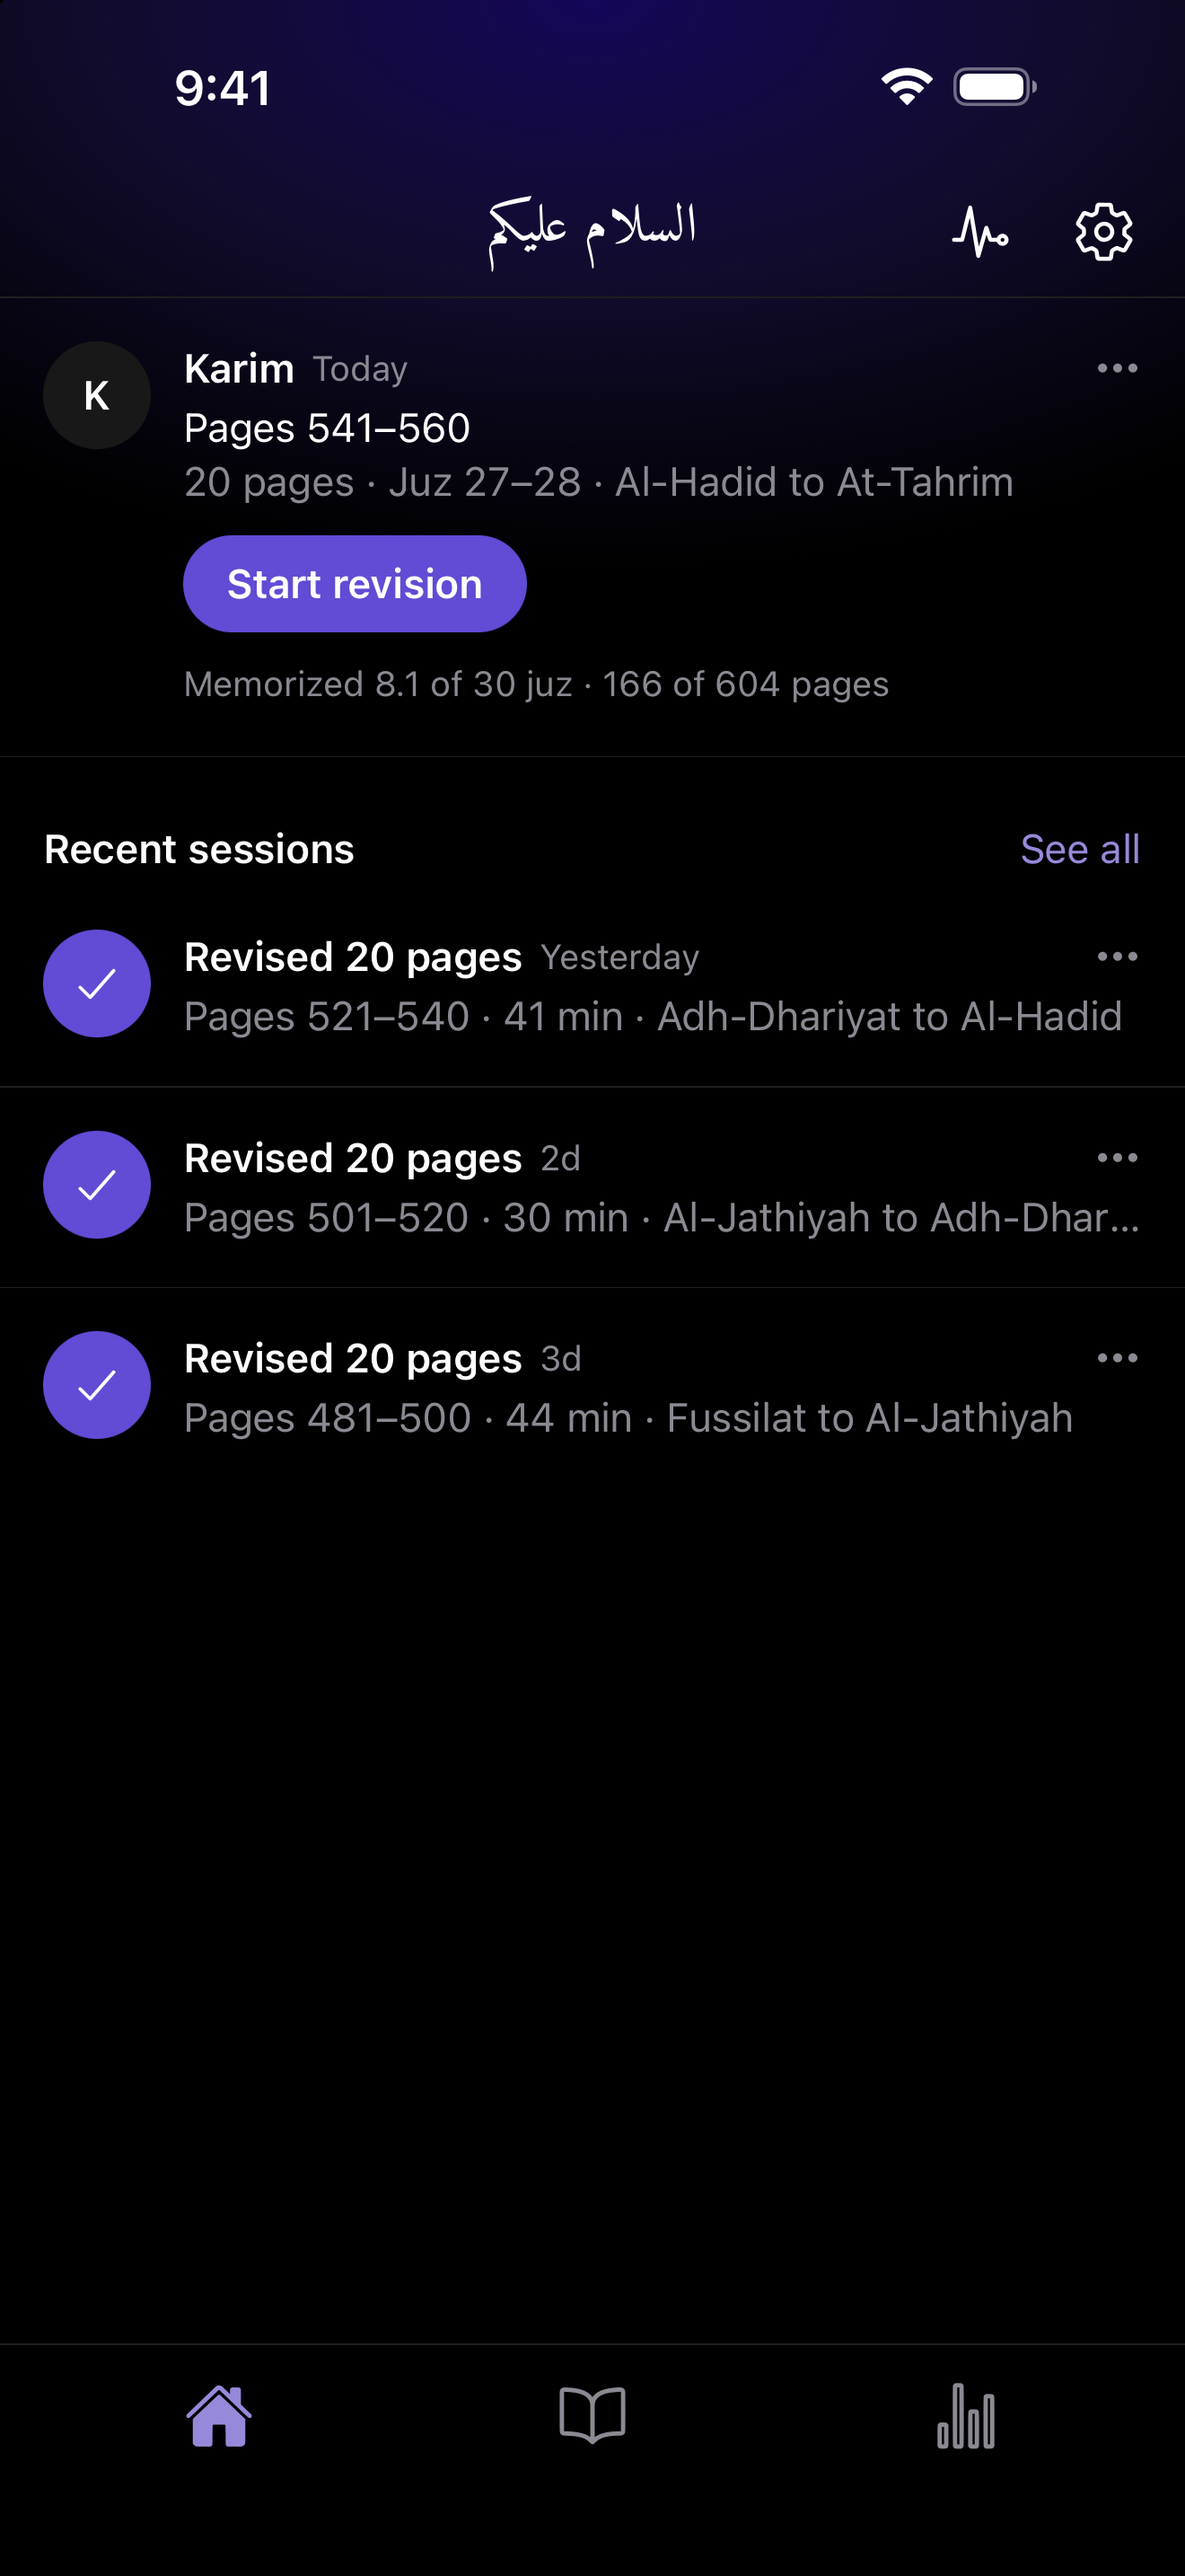
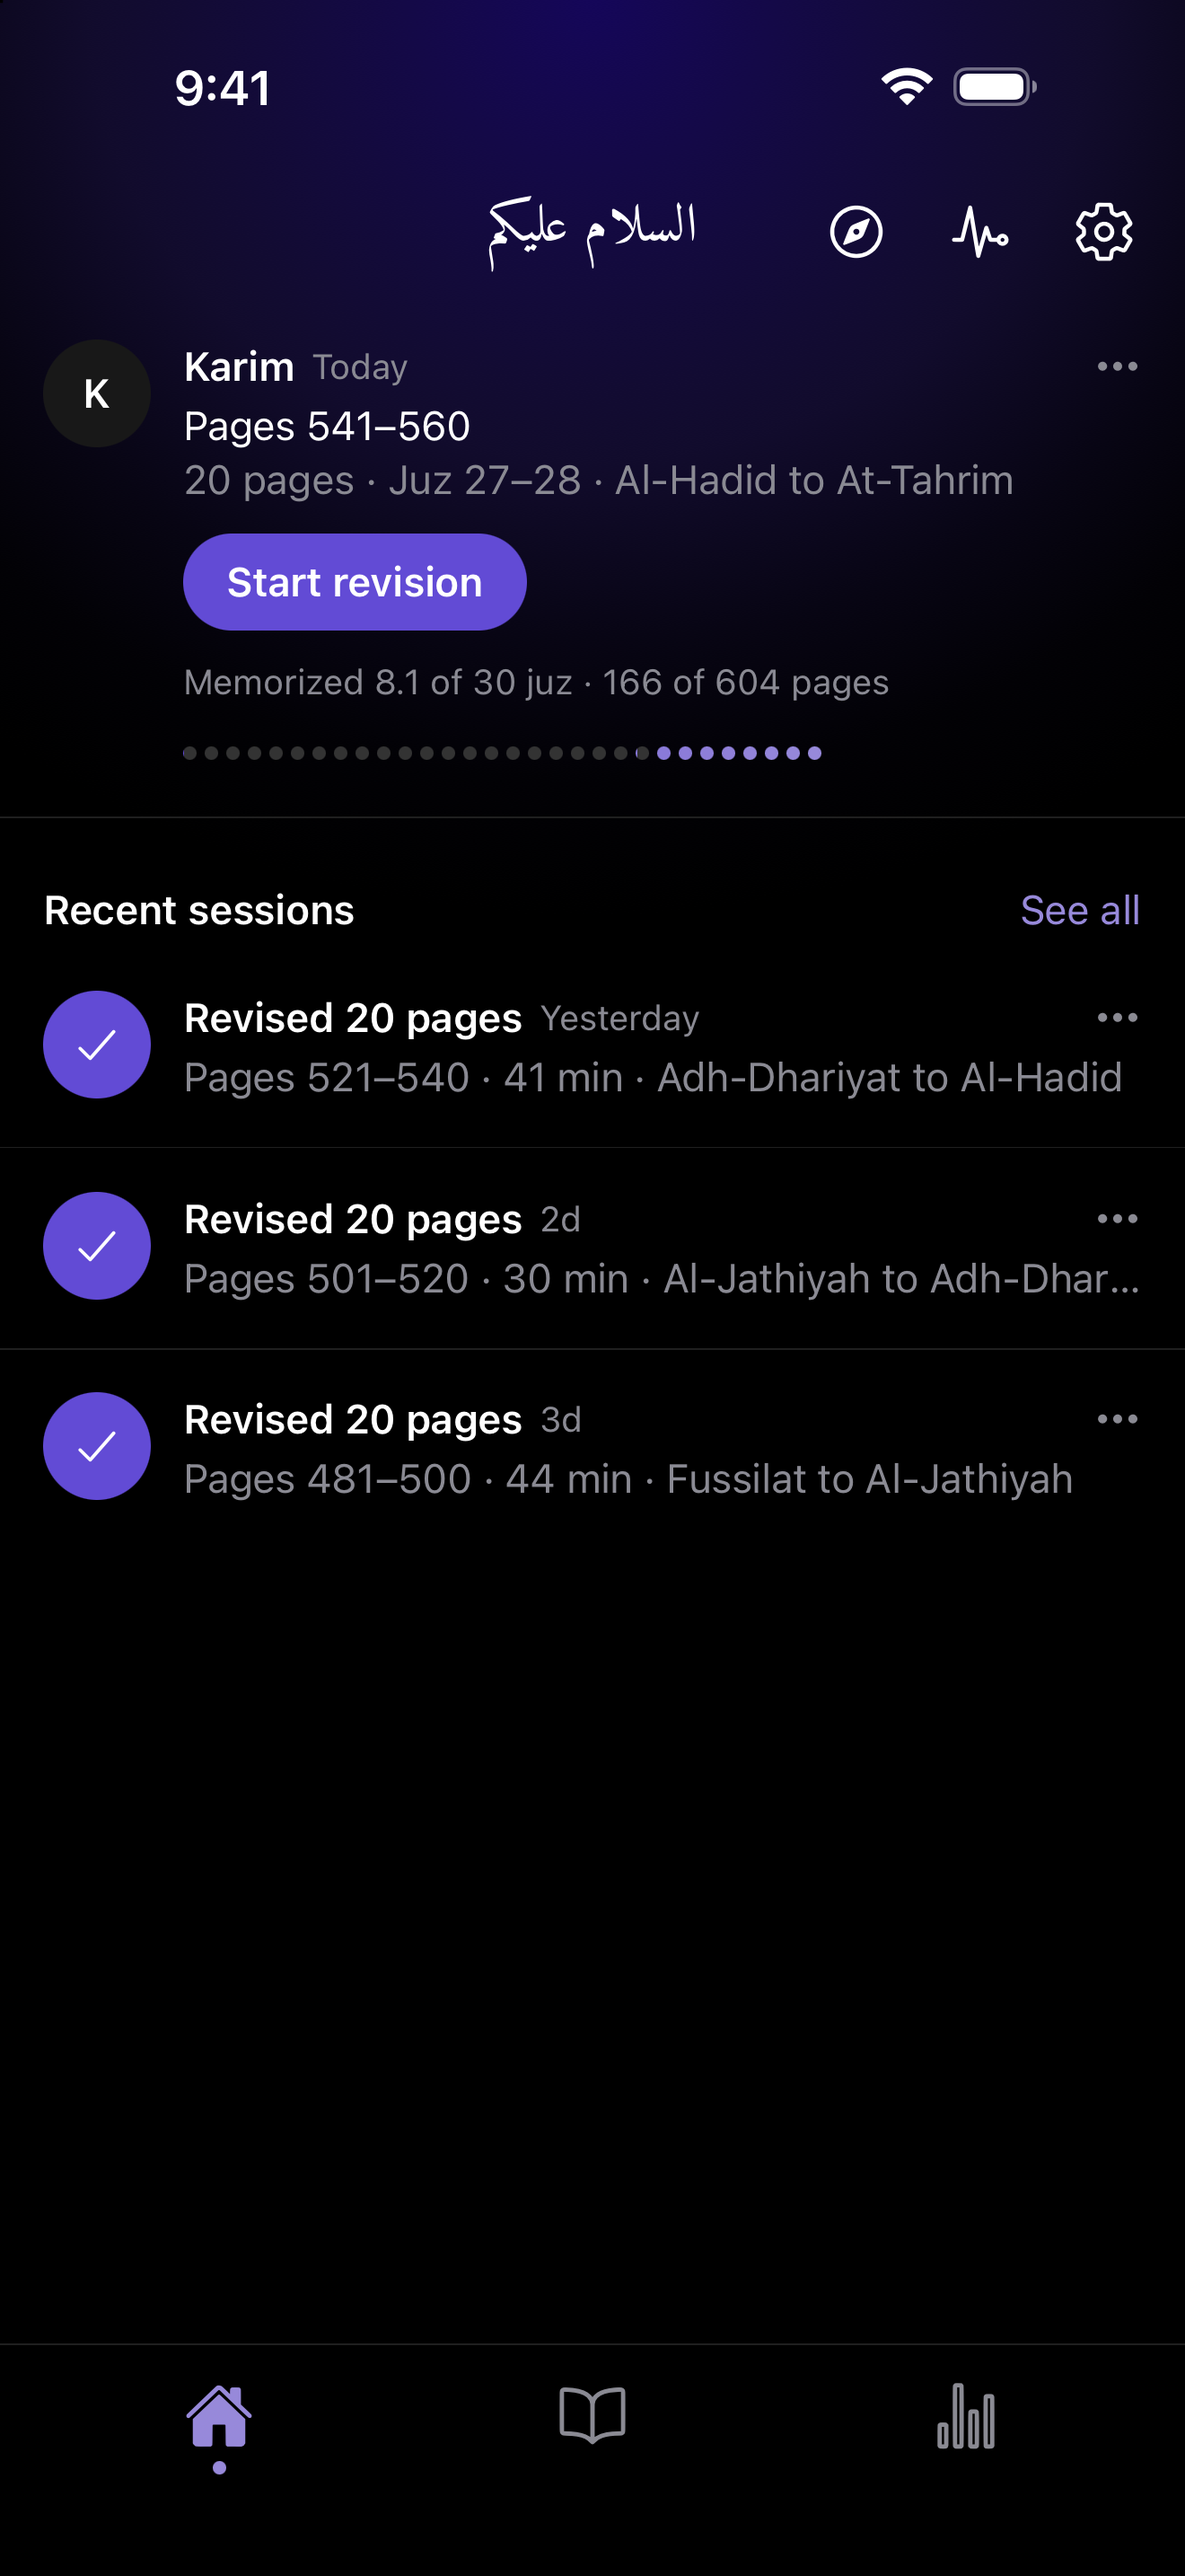
App Store screenshots for 1.0.2, retaken in tonight's build's design
The six (light, and dark under store/screenshots/dark), retaken on
develop c350b1e: Home with the Juz dots, the new glow and the Qibla icon;
the reader holding Al-Hamd with Saheeh International; a revision session;
the Activity month; a day with recordings; Insights. 1320x2868 RGB, 9:41
status bar, the screenshots account (Karim). Not uploaded: they wait for
the owner's approval.

diff --git a/CLAUDE.md b/CLAUDE.md
@@ -306,9 +306,11 @@ iPhone 17 Pro Max simulator: the dev client, with Metro started with `--no-dev -
 overlays; use another port if 8081 is taken) and `xcrun simctl status_bar booted override --time
 9:41 --batteryState discharging --batteryLevel 100 ...` (discharging: no charging bolt). Reopen the
 app from the home screen to clear the back-link in the status bar.
-- The 1.0.2 set (Oct 27 2026), light, Indigo, 1320×2868 (the 6.9" set; no iPad, `supportsTablet`
-  is false): Home, the reader holding Al-Hamd with Saheeh International (not The Clear Quran, whose
-  licence covers the app), a revision session, the Activity month, a day with recordings, Insights.
+- The 1.0.2 set (retaken Oct 28 2026 on develop c350b1e: Juz dots, the new glow, the Qibla icon),
+  light, Indigo, 1320×2868 RGB (the 6.9" set; no iPad, `supportsTablet` is false): Home, the reader
+  holding Al-Hamd with Saheeh International (not The Clear Quran, whose licence covers the app), a
+  revision session, the Activity month, a day with recordings (the revision one paused at 2:01 by
+  tapping its waveform 42% in), Insights.
   `store/screenshots/dark/` holds the same in dark; `asc.js screenshots` uploads only the top-level
   PNGs, so move a dark one up to use it.
 - The recordings are demo audio (a synthesized tone), placed on the simulator: two `.m4a` files and
